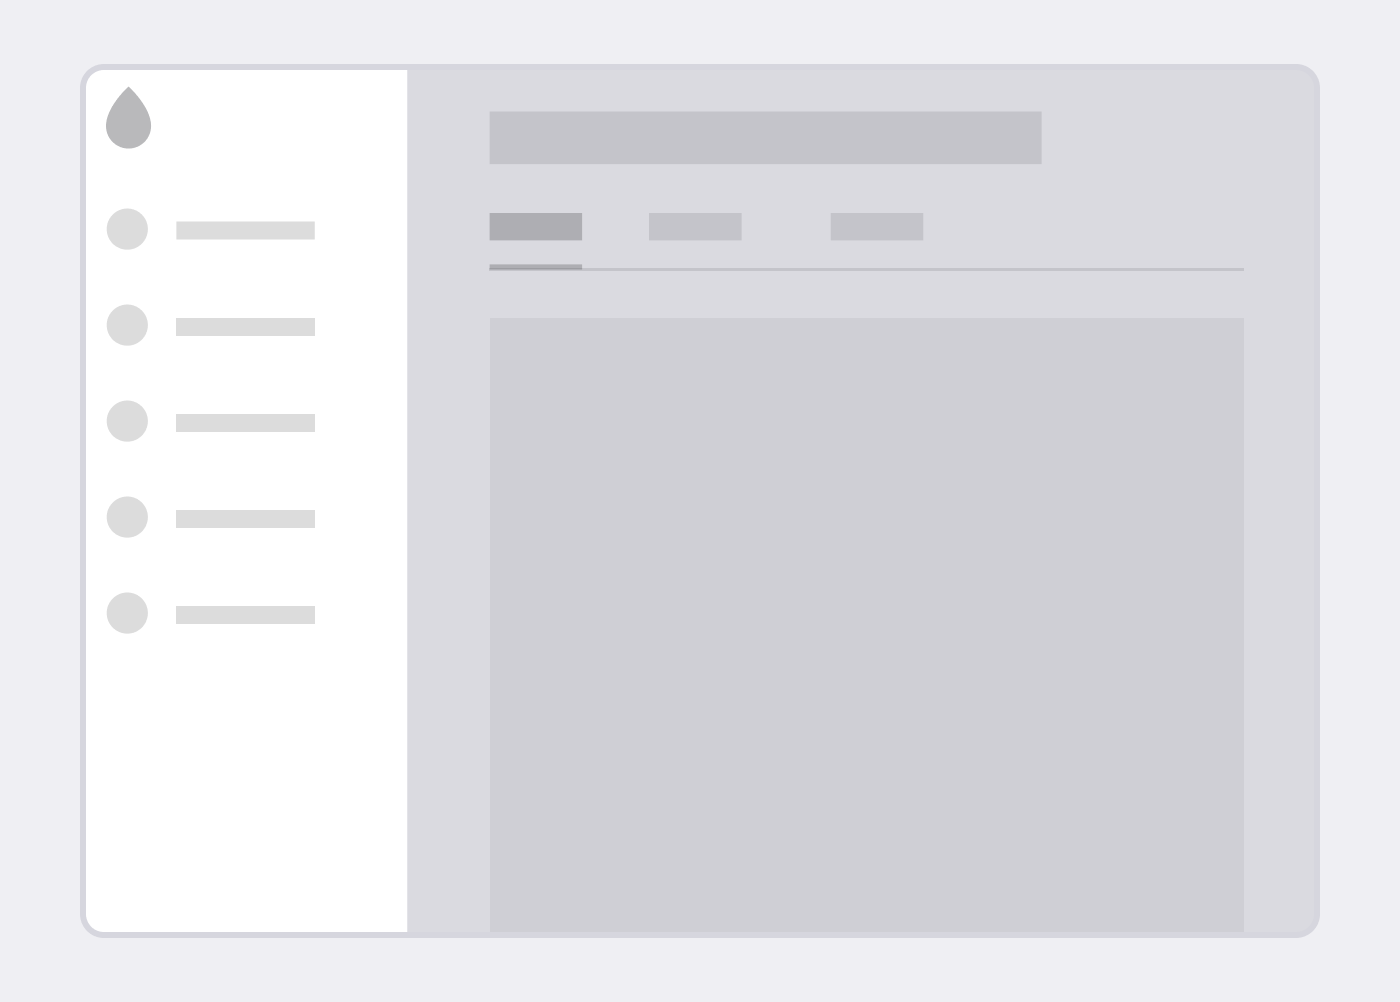
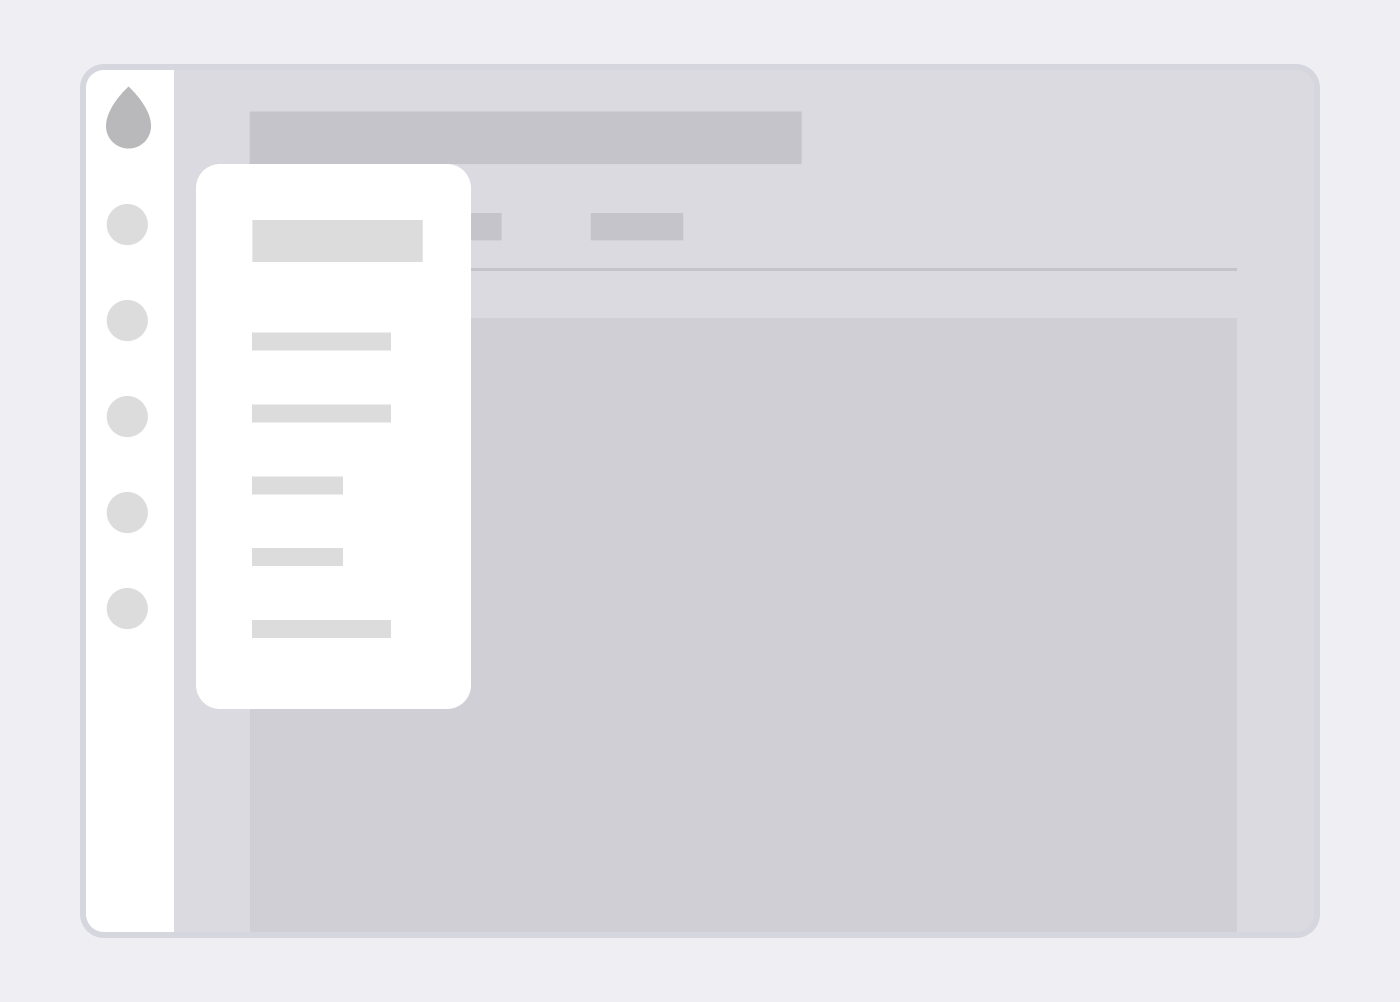
Navigation settings changes, adding flags

Changed region(s): [[0.1229, 0.0619, 0.43, 0.9281]]

diff --git a/dist/css/components/settings.css b/dist/css/components/settings.css
@@ -313,3 +313,46 @@
   background-image: url(../../media/settings/layout_density_small_darkmode.png);
 }
 
+.gin-beta-flag,
+.gin-experimental-flag,
+.gin-new-flag {
+  font-size: 10px;
+  font-weight: var(--gin-font-weight-semibold);
+  text-transform: uppercase;
+  letter-spacing: .1em;
+  display: inline-block;
+  padding: .125em .5em;
+  vertical-align: .125em;
+  border-radius: var(--gin-border-xs);
+}
+
+.gin-beta-flag,
+.gin-experimental-flag {
+  color: #555;
+  background: #ddd;
+}
+
+.gin--dark-mode .gin-beta-flag,
+.gin--dark-mode .gin-experimental-flag {
+  color: #eee;
+  background: #444;
+}
+
+.gin-new-flag {
+  color: #fff;
+  background-color: #26a769;
+}
+
+input[data-gin-toolbar=new] + label .gin-new-flag {
+  position: absolute;
+  top: -100px;
+}
+
+[dir="ltr"] input[data-gin-toolbar=new] + label .gin-new-flag {
+  right: 8px;
+}
+
+[dir="rtl"] input[data-gin-toolbar=new] + label .gin-new-flag {
+  left: 8px;
+}
+

diff --git a/styles/components/settings.scss b/styles/components/settings.scss
@@ -283,3 +283,40 @@
     }
   }
 }
+
+// Flags.
+.gin-beta-flag,
+.gin-experimental-flag,
+.gin-new-flag
+{
+  font-size: 10px;
+  font-weight: var(--gin-font-weight-semibold);
+  text-transform: uppercase;
+  letter-spacing: .1em;
+  display: inline-block;
+  padding:.125em .5em;
+  vertical-align: .125em;
+  border-radius: var(--gin-border-xs);
+}
+
+.gin-beta-flag,
+.gin-experimental-flag {
+  color: #555;
+  background: #ddd;
+
+  .gin--dark-mode & {
+    color: #eee;
+    background: #444;
+  }
+}
+
+.gin-new-flag {
+  color: #fff;
+  background-color: #26a769;
+}
+
+input[data-gin-toolbar="new"] + label .gin-new-flag {
+  position: absolute;
+  top: -100px;
+  right: 8px;
+}

diff --git a/src/GinSettings.php b/src/GinSettings.php
@@ -275,8 +275,9 @@ class GinSettings implements ContainerInjectionInterface {
    *   The theme setting form elements.
    */
   public function getSettingsForm(AccountInterface $account = NULL): array {
-    $experimental_label = ' (EXPERIMENTAL)';
-    $beta_label = ' (BETA)';
+    $experimental_label = ' <span class="gin-experimental-flag">Experimental</span>';
+    $beta_label = ' <span class="gin-beta-flag">Beta</span>';
+    $new_label = ' <span class="gin-new-flag">New</span>';
 
     $form['enable_darkmode'] = [
       '#type' => 'radios',
@@ -423,7 +424,7 @@ class GinSettings implements ContainerInjectionInterface {
         'vertical' => $this->t('Sidebar, Vertical Toolbar (Default)'),
         'horizontal' => $this->t('Horizontal, Modern Toolbar'),
         'classic' => $this->t('Legacy, Classic Drupal Toolbar'),
-        'new' => $this->t('New Drupal Navigation, Test integration') . $experimental_label,
+        'new' => $this->t('New Drupal Navigation, Test integration') . $new_label . $experimental_label,
       ],
       '#after_build' => [
         '_gin_toolbar_radios',
